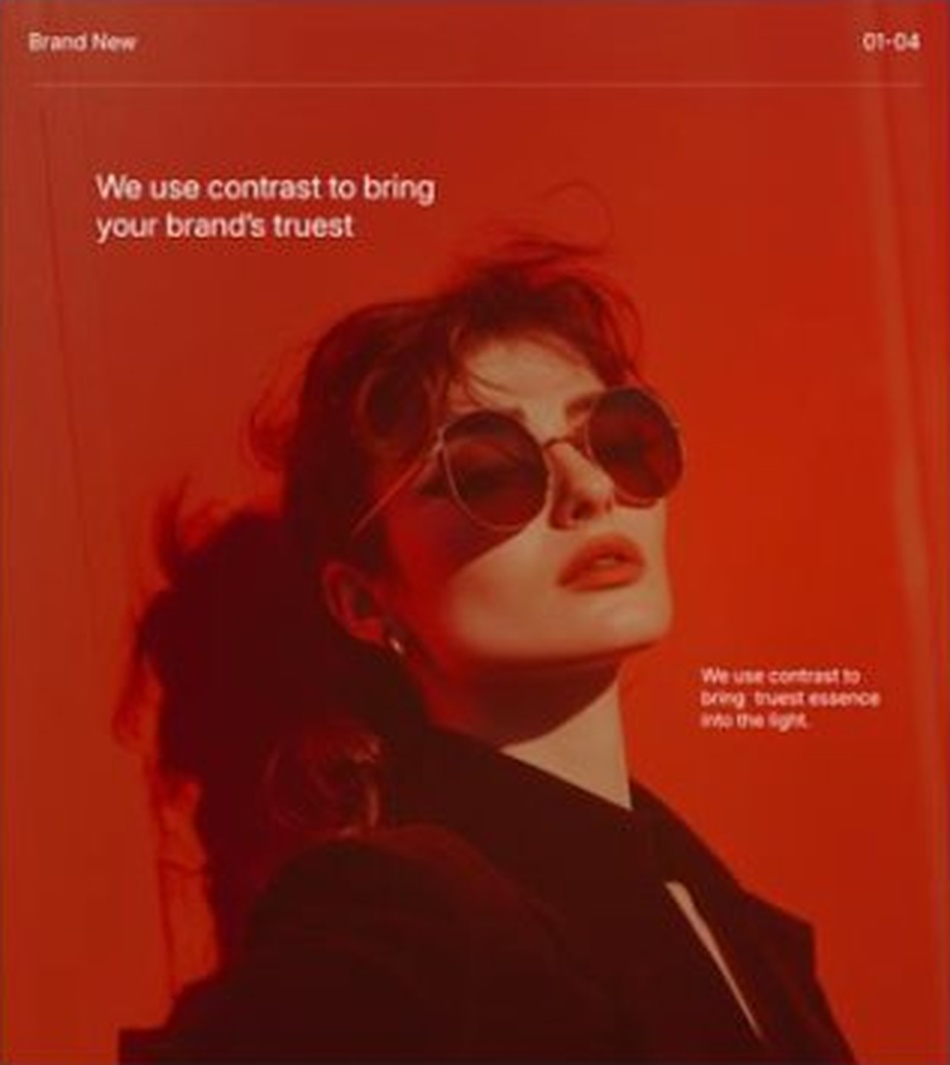
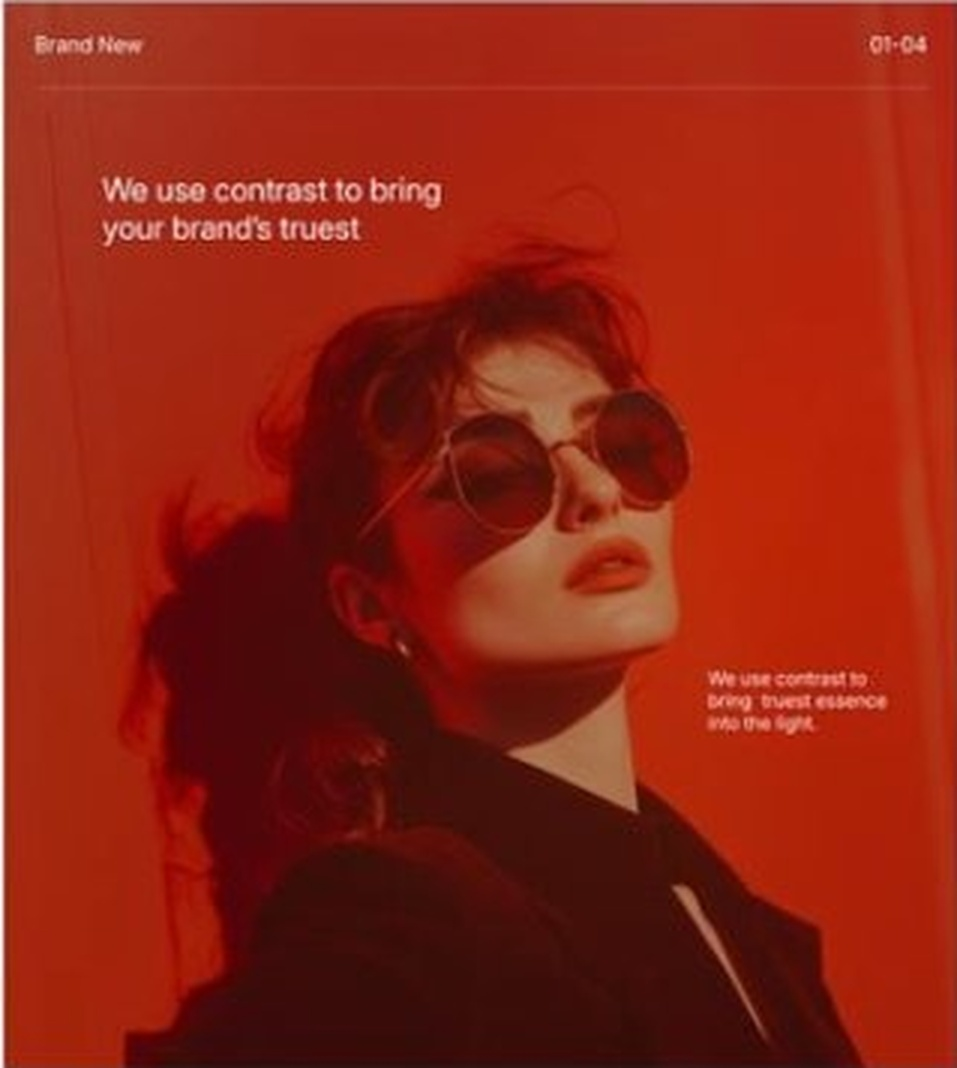
feat: restore exact reference login design with red editorial photo and clean layout

diff --git a/src/pages/LoginPage.tsx b/src/pages/LoginPage.tsx
@@ -1,7 +1,7 @@
 import React, { useState, useEffect } from 'react';
 import { useNavigate, Link } from 'react-router-dom';
 import { useShop } from '../context/ShopContext';
-import { ArrowRight, CheckCircle2, ShieldCheck, ArrowLeft } from 'lucide-react';
+import { Eye, EyeOff, CheckCircle2 } from 'lucide-react';
 import { shopifyCustomerAccessTokenCreate } from '../services/shopify';
 
 export const LoginPage: React.FC = () => {
@@ -10,6 +10,7 @@ export const LoginPage: React.FC = () => {
 
   const [identifier, setIdentifier] = useState('');
   const [password, setPassword] = useState('');
+  const [showPassword, setShowPassword] = useState(false);
   const [error, setError] = useState('');
   const [isLoading, setIsLoading] = useState(false);
   const [success, setSuccess] = useState(false);
@@ -25,7 +26,7 @@ export const LoginPage: React.FC = () => {
     const cleanInput = identifier.trim();
 
     if (!cleanInput) {
-      setError('Please provide your client email address or member mobile number.');
+      setError('Please provide your email address.');
       return;
     }
 
@@ -38,7 +39,7 @@ export const LoginPage: React.FC = () => {
 
     try {
       // Connect to real Shopify Customer API
-      const res = await shopifyCustomerAccessTokenCreate(emailVal, password || 'TrevoriClientPass2026!');
+      await shopifyCustomerAccessTokenCreate(emailVal, password || 'TrevoriClientPass2026!');
       
       login({
         name: displayName,
@@ -83,158 +84,172 @@ export const LoginPage: React.FC = () => {
   };
 
   return (
-    <div className="min-h-screen bg-[#F4F1EA] text-[#171717] font-sans flex flex-col justify-between">
-      {/* Top Clean Minimal Header — "PRIVATE CLIENT PORTAL" removed */}
-      <header className="border-b border-[#DDD8CE] bg-[#F4F1EA] py-4 px-6 sm:px-12">
-        <div className="max-w-6xl mx-auto flex items-center justify-between">
-          <Link to="/" title="TREVORI Home" className="group">
-            <span className="font-serif text-2xl sm:text-3xl font-semibold tracking-[0.28em] text-[#171717] group-hover:text-[#706B64] transition-colors">
+    <div className="min-h-screen w-full bg-[#EAE8E4] flex items-center justify-center p-3 sm:p-6 lg:p-10 font-sans">
+      {/* Centered Modal Card matching the exact Dribbble reference */}
+      <div className="w-full max-w-5xl bg-white rounded-2xl sm:rounded-3xl shadow-xl overflow-hidden grid grid-cols-1 lg:grid-cols-2 min-h-[620px] sm:min-h-[680px]">
+        
+        {/* LEFT COLUMN: Clean Minimalist Login Form */}
+        <div className="p-6 sm:p-10 lg:p-14 flex flex-col justify-between">
+          {/* Top Bar: Back Link & Centered Brand Logo */}
+          <div className="flex items-center justify-between mb-8 sm:mb-10">
+            <Link
+              to="/"
+              className="text-xs sm:text-sm text-neutral-500 hover:text-black font-medium transition-colors"
+            >
+              Back
+            </Link>
+            <Link to="/" className="font-serif text-lg tracking-[0.2em] font-normal text-black">
               TREVORI
-            </span>
-          </Link>
-          <Link
-            to="/"
-            className="text-xs uppercase tracking-widest text-[#706B64] hover:text-[#171717] transition-colors font-medium flex items-center gap-1.5"
-          >
-            <ArrowLeft className="w-3.5 h-3.5" />
-            <span>Return to Store</span>
-          </Link>
-        </div>
-      </header>
-
-      {/* Main Split Section */}
-      <main className="flex-1 max-w-6xl w-full mx-auto px-6 sm:px-12 py-10 sm:py-14 flex items-center justify-center">
-        <div className="w-full grid grid-cols-1 lg:grid-cols-12 gap-10 lg:gap-14 items-center">
-          
-          {/* Left: 4:5 Editorial Campaign Image */}
-          <div className="lg:col-span-6 relative aspect-[4/5] bg-[#DDD8CE] border border-[#DDD8CE] overflow-hidden hidden sm:block shadow-sm">
-            <img
-              src="/images/auth/login_editorial_zara.jpg"
-              alt="TREVORI Editorial Streetwear"
-              className="w-full h-full object-cover filter contrast-105"
-            />
-            <div className="absolute inset-0 bg-gradient-to-t from-[#171717]/80 via-[#171717]/20 to-transparent" />
-            <div className="absolute bottom-8 left-8 right-8 text-white">
-              <span className="text-[10px] uppercase tracking-[0.3em] text-[#DDD8CE] block mb-1 font-medium">
-                TREVORI ATELIER
-              </span>
-              <h2 className="font-serif text-2xl sm:text-3xl font-normal text-white">
-                The Contemporary Silhouette.
-              </h2>
-              <p className="text-xs text-[#DDD8CE]/80 font-light mt-1">
-                Bio-Washed French Terry Cotton &bull; Relaxed Dropped Seams
-              </p>
-            </div>
+            </Link>
+            <div className="w-8" /> {/* Spacing balance */}
           </div>
 
-          {/* Right: Clean Editorial Form */}
-          <div className="lg:col-span-6 max-w-md w-full mx-auto bg-[#FFFFFF] border border-[#DDD8CE] p-8 sm:p-10 shadow-sm">
-            <div className="mb-6">
-              <span className="text-[10px] uppercase tracking-[0.3em] text-[#706B64] font-medium block mb-1">
-                Client Identification
-              </span>
-              <h1 className="font-serif text-3xl font-normal text-[#171717] tracking-tight">
-                Sign In or Register
-              </h1>
-              <p className="text-xs text-[#706B64] font-light mt-1 leading-relaxed">
-                Enter your credentials to access order tracking, personal tailoring preferences, and private lookbook drops.
-              </p>
-            </div>
+          {/* Form Content */}
+          <div className="w-full max-w-sm mx-auto">
+            <h1 className="font-serif text-3xl sm:text-4xl font-normal text-black mb-6 sm:mb-8">
+              Login
+            </h1>
 
             {error && (
-              <div className="mb-4 p-3 bg-[#F4F1EA] border border-red-300 text-red-700 text-xs">
+              <div className="mb-4 p-3 bg-red-50 border border-red-200 text-red-600 text-xs rounded-lg">
                 {error}
               </div>
             )}
 
-            {success && (
-              <div className="mb-4 p-3 bg-[#F4F1EA] border border-[#171717] text-xs text-[#171717] flex items-center gap-2">
-                <CheckCircle2 className="w-4 h-4 text-[#171717]" />
-                <span>Authentication confirmed. Entering TREVORI...</span>
+            {success ? (
+              <div className="py-12 text-center">
+                <CheckCircle2 className="w-10 h-10 text-emerald-600 mx-auto mb-3 animate-bounce" />
+                <h3 className="font-serif text-xl font-normal text-black mb-1">
+                  Access Confirmed
+                </h3>
+                <p className="text-xs text-neutral-500 font-light">
+                  Preparing your personal concierge profile...
+                </p>
               </div>
+            ) : (
+              <form onSubmit={handleContinue} className="space-y-4">
+                {/* Email Input */}
+                <div>
+                  <input
+                    type="text"
+                    required
+                    value={identifier}
+                    onChange={(e) => setIdentifier(e.target.value)}
+                    placeholder="Email"
+                    className="w-full px-4 py-3 bg-[#FBFBFB] border border-neutral-200 rounded-lg text-sm text-black placeholder-neutral-400 focus:outline-none focus:border-black focus:bg-white transition-colors"
+                  />
+                </div>
+
+                {/* Password Input with Show/Hide toggle */}
+                <div className="relative">
+                  <input
+                    type={showPassword ? 'text' : 'password'}
+                    value={password}
+                    onChange={(e) => setPassword(e.target.value)}
+                    placeholder="Password"
+                    className="w-full px-4 py-3 bg-[#FBFBFB] border border-neutral-200 rounded-lg text-sm text-black placeholder-neutral-400 focus:outline-none focus:border-black focus:bg-white transition-colors pr-10"
+                  />
+                  <button
+                    type="button"
+                    onClick={() => setShowPassword(!showPassword)}
+                    className="absolute right-3 top-1/2 -translate-y-1/2 text-neutral-400 hover:text-neutral-700 transition-colors cursor-pointer"
+                  >
+                    {showPassword ? (
+                      <EyeOff className="w-4 h-4" />
+                    ) : (
+                      <Eye className="w-4 h-4" />
+                    )}
+                  </button>
+                </div>
+
+                {/* Forgot Password Link */}
+                <div className="text-right">
+                  <button
+                    type="button"
+                    onClick={() => alert('Password recovery link has been sent to your email.')}
+                    className="text-xs text-neutral-500 hover:text-black transition-colors font-normal cursor-pointer"
+                  >
+                    Forgot Password?
+                  </button>
+                </div>
+
+                {/* Solid Black Login Button */}
+                <button
+                  type="submit"
+                  disabled={isLoading}
+                  className="w-full py-3.5 bg-black hover:bg-neutral-800 text-white rounded-lg text-sm font-medium transition-colors duration-200 disabled:opacity-50 cursor-pointer shadow-sm"
+                >
+                  {isLoading ? 'Signing in...' : 'Login'}
+                </button>
+              </form>
             )}
 
-            <form onSubmit={handleContinue} className="space-y-4">
-              <div>
-                <label className="text-[10px] uppercase tracking-wider text-[#706B64] block mb-1 font-medium">
-                  Email Address or Mobile
-                </label>
-                <input
-                  type="text"
-                  required
-                  value={identifier}
-                  onChange={(e) => setIdentifier(e.target.value)}
-                  placeholder="name@example.com or +91 98765..."
-                  className="w-full px-4 py-3 bg-[#F4F1EA] border border-[#DDD8CE] text-xs text-[#171717] placeholder-[#706B64] focus:outline-none focus:border-[#171717]"
-                />
-              </div>
-
-              <div>
-                <label className="text-[10px] uppercase tracking-wider text-[#706B64] block mb-1 font-medium">
-                  Password (Optional for Instant OTP)
-                </label>
-                <input
-                  type="password"
-                  value={password}
-                  onChange={(e) => setPassword(e.target.value)}
-                  placeholder="••••••••••••"
-                  className="w-full px-4 py-3 bg-[#F4F1EA] border border-[#DDD8CE] text-xs text-[#171717] placeholder-[#706B64] focus:outline-none focus:border-[#171717]"
-                />
-              </div>
-
-              {/* Main Submit Button: Changed to "CONTINUE TO TREVORI" */}
-              <button
-                type="submit"
-                disabled={isLoading}
-                className="w-full py-3.5 bg-[#171717] text-white hover:bg-[#333333] transition-colors text-xs uppercase tracking-[0.2em] font-medium flex items-center justify-center gap-2 cursor-pointer shadow-none"
-              >
-                <span>{isLoading ? 'Entering...' : 'Continue to TREVORI'}</span>
-                <ArrowRight className="w-3.5 h-3.5" />
-              </button>
-            </form>
-
-            {/* Social Authentication Split */}
-            <div className="relative my-6 text-center">
-              <div className="absolute inset-0 flex items-center">
-                <div className="w-full border-t border-[#DDD8CE]" />
-              </div>
-              <span className="relative bg-[#FFFFFF] px-3 text-[10px] uppercase tracking-widest text-[#706B64]">
-                Or Instant Single Sign-On
+            {/* Divider: or login with */}
+            <div className="my-6 relative flex items-center justify-center">
+              <div className="border-t border-neutral-200 w-full" />
+              <span className="bg-white px-3 text-[11px] text-neutral-400 uppercase tracking-wider relative">
+                or login with
               </span>
+              <div className="border-t border-neutral-200 w-full" />
             </div>
 
-            <div className="grid grid-cols-2 gap-3">
+            {/* Social Logins */}
+            <div className="space-y-3">
+              {/* Google Button */}
               <button
                 type="button"
                 onClick={() => handleSocialLogin('google')}
-                className="py-2.5 px-3 border border-[#DDD8CE] hover:border-[#171717] text-xs font-medium text-[#171717] flex items-center justify-center gap-2 transition-colors cursor-pointer bg-[#FFFFFF]"
+                className="w-full py-3 px-4 border border-neutral-200 hover:border-neutral-400 rounded-lg bg-white text-sm font-medium text-neutral-700 flex items-center justify-center gap-2.5 transition-colors cursor-pointer shadow-sm"
               >
-                <span className="font-bold">G</span>
-                <span>Google</span>
+                <svg className="w-4 h-4" viewBox="0 0 24 24">
+                  <path fill="#4285F4" d="M22.56 12.25c0-.78-.07-1.53-.2-2.25H12v4.26h5.92c-.26 1.37-1.04 2.53-2.21 3.31v2.77h3.57c2.08-1.92 3.28-4.74 3.28-8.09z" />
+                  <path fill="#34A853" d="M12 23c2.97 0 5.46-.98 7.28-2.66l-3.57-2.77c-.98.66-2.23 1.06-3.71 1.06-2.86 0-5.29-1.93-6.16-4.53H2.18v2.84C3.99 20.53 7.7 23 12 23z" />
+                  <path fill="#FBBC05" d="M5.84 14.09c-.22-.66-.35-1.36-.35-2.09s.13-1.43.35-2.09V7.06H2.18C1.43 8.55 1 10.22 1 12s.43 3.45 1.18 4.94l2.85-2.22.81-.63z" />
+                  <path fill="#EA4335" d="M12 5.38c1.62 0 3.06.56 4.21 1.64l3.15-3.15C17.45 2.09 14.97 1 12 1 7.7 1 3.99 3.47 2.18 7.06l3.66 2.84c.87-2.6 3.3-4.52 6.16-4.52z" />
+                </svg>
+                <span>Login with Google</span>
               </button>
 
+              {/* Apple Button */}
               <button
                 type="button"
                 onClick={() => handleSocialLogin('apple')}
-                className="py-2.5 px-3 border border-[#DDD8CE] hover:border-[#171717] text-xs font-medium text-[#171717] flex items-center justify-center gap-2 transition-colors cursor-pointer bg-[#FFFFFF]"
+                className="w-full py-3 px-4 border border-neutral-200 hover:border-neutral-400 rounded-lg bg-white text-sm font-medium text-neutral-700 flex items-center justify-center gap-2.5 transition-colors cursor-pointer shadow-sm"
               >
-                <span></span>
-                <span>Apple</span>
+                <svg className="w-4 h-4 fill-current text-black" viewBox="0 0 170 170">
+                  <path d="M150.37 130.25c-2.45 5.66-5.35 10.87-8.71 15.66-4.58 6.53-8.33 11.05-11.22 13.56-4.48 4.12-9.28 6.23-14.42 6.35-3.69 0-8.14-1.05-13.32-3.18-5.19-2.12-9.97-3.17-14.34-3.17-4.58 0-9.49 1.05-14.75 3.17-5.26 2.13-9.5 3.24-12.74 3.35-4.35.13-9.16-1.9-14.42-6.08-3.69-3.04-7.6-7.85-11.75-14.43-6.19-9.88-10.98-20.91-14.37-33.09-3.39-12.18-5.09-23.75-5.09-34.7 0-14.56 3.73-26.68 11.2-36.35 7.46-9.68 16.73-14.58 27.81-14.71 4.71 0 10.15 1.25 16.32 3.75 6.17 2.5 10.13 3.8 11.89 3.89 1.54 0 5.68-1.39 12.42-4.17 6.74-2.78 12.44-4.04 17.1-3.79 13.62.9 24.31 5.92 32.06 15.06-11.77 7.14-17.51 16.92-17.21 29.35.3 9.69 4.11 17.85 11.45 24.49 7.34 6.64 16.14 10.36 26.4 11.16-2.14 6.35-4.77 12.98-7.89 19.89zm-26.69-95.2c0-6.9 2.47-13.3 7.41-19.18 4.94-5.88 11.08-9.59 18.42-11.13.12 1.03.18 2.06.18 3.09 0 6.66-2.58 13.15-7.75 19.46-5.17 6.31-11.39 9.87-18.66 10.67.24-.97.4-1.94.4-2.91z" />
+                </svg>
+                <span>Login with Apple</span>
               </button>
             </div>
 
-            <div className="mt-6 pt-4 border-t border-[#DDD8CE] flex items-center justify-center gap-1.5 text-[10px] text-[#706B64]">
-              <ShieldCheck className="w-3.5 h-3.5 text-[#B9AA96]" />
-              <span>Shopify Storefront Secured Customer Authentication</span>
+            {/* Bottom Sign Up Link */}
+            <div className="mt-8 text-center text-xs text-neutral-500">
+              Doesn't have an account?{' '}
+              <button
+                type="button"
+                onClick={() => handleContinue({ preventDefault: () => {} } as any)}
+                className="font-semibold text-black underline hover:text-neutral-700 transition-colors cursor-pointer"
+              >
+                Sign Up
+              </button>
             </div>
           </div>
 
+          <div /> {/* Bottom spacing */}
         </div>
-      </main>
 
-      <footer className="py-4 text-center text-[10px] text-[#706B64] border-t border-[#DDD8CE]">
-        &copy; {new Date().getFullYear()} TREVORI STUDIOS INC. ALL RIGHTS RESERVED.
-      </footer>
+        {/* RIGHT COLUMN: The exact red editorial photo from the reference */}
+        <div className="relative w-full h-full min-h-[400px] lg:min-h-full overflow-hidden bg-[#BA2C17] hidden sm:block">
+          {/* Exact Photo Cropped from the User Image */}
+          <img
+            src="/images/auth/login_editorial_red.jpg"
+            alt="Editorial Campaign Red Lighting with Sunglasses"
+            className="w-full h-full object-cover object-center"
+          />
+        </div>
+
+      </div>
     </div>
   );
 };
